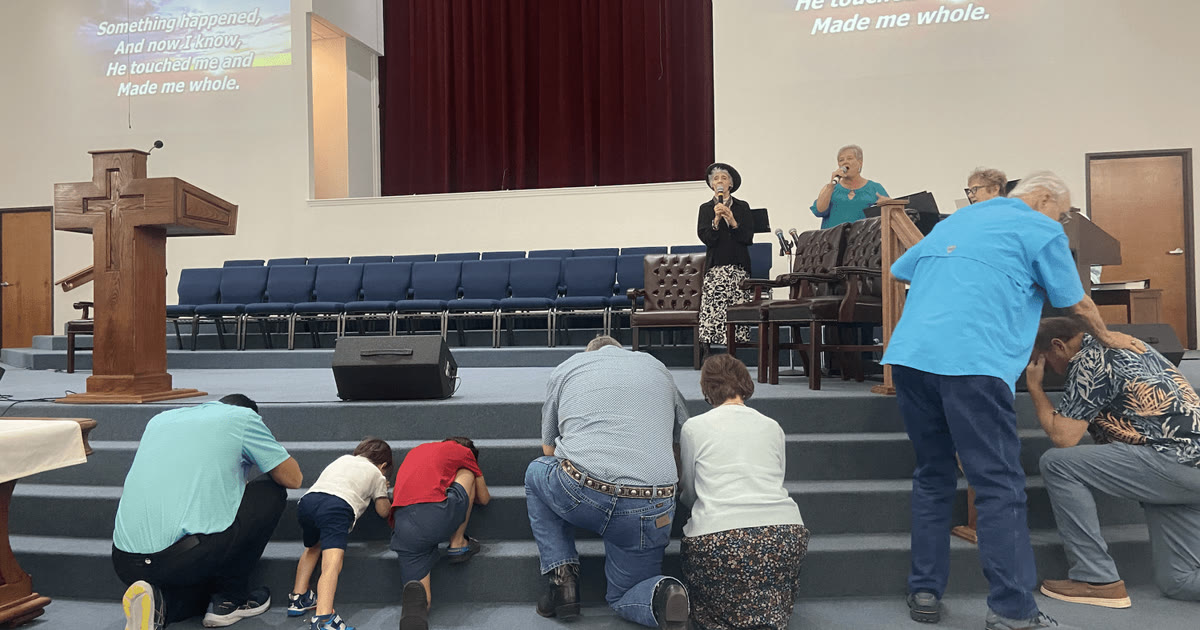
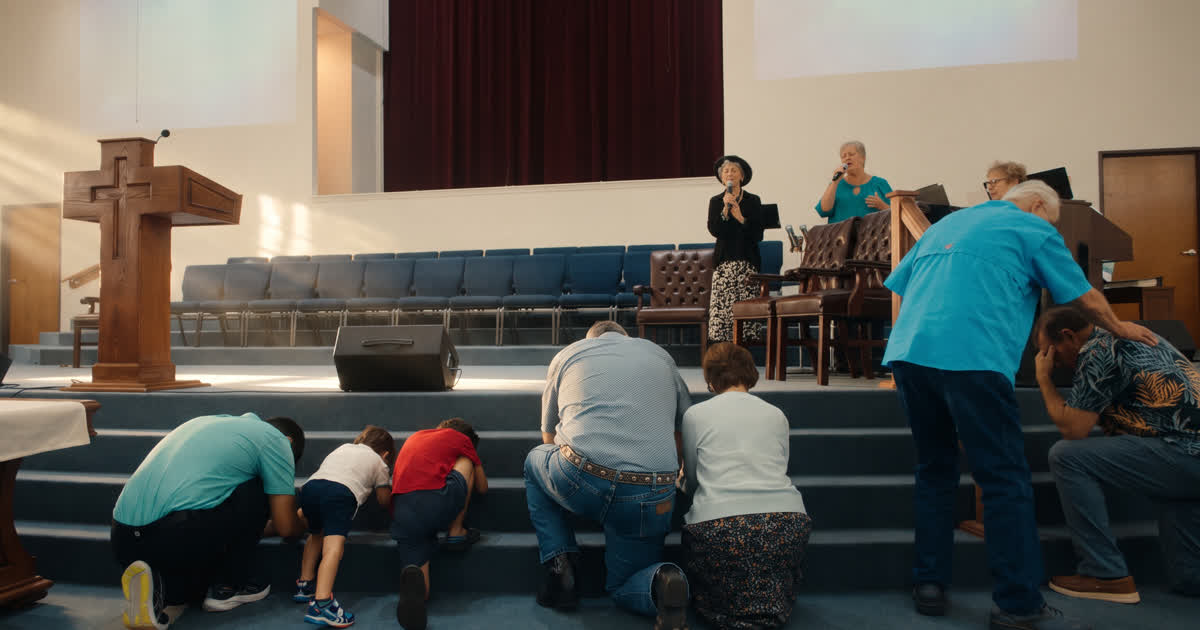
Use the sanctuary photo as the home page background
The hero and the share image now use the brighter worship photograph, with a lighter veil so the room stays visible behind the title.

diff --git a/src/styles/global.css b/src/styles/global.css
@@ -172,7 +172,7 @@ a {
   width: 100%;
   height: 100%;
   object-fit: cover;
-  object-position: center 35%;
+  object-position: center 42%;
 }
 
 .campus-hero::after {
@@ -180,13 +180,19 @@ a {
   position: absolute;
   inset: 0;
   background:
-    linear-gradient(180deg, rgba(16, 11, 8, 0.28), rgba(16, 11, 8, 0.55) 55%, rgba(16, 11, 8, 0.62));
+    linear-gradient(180deg, rgba(16, 11, 8, 0.12), rgba(16, 11, 8, 0.22) 42%, rgba(16, 11, 8, 0.38));
 }
 
 .hero-copy {
   position: relative;
   z-index: 1;
   padding: 4.5rem 1.25rem;
+}
+
+.campus-hero h1,
+.hero-tagline,
+.hero-times {
+  text-shadow: 0 2px 16px rgba(16, 11, 8, 0.45);
 }
 
 .campus-hero h1 {
